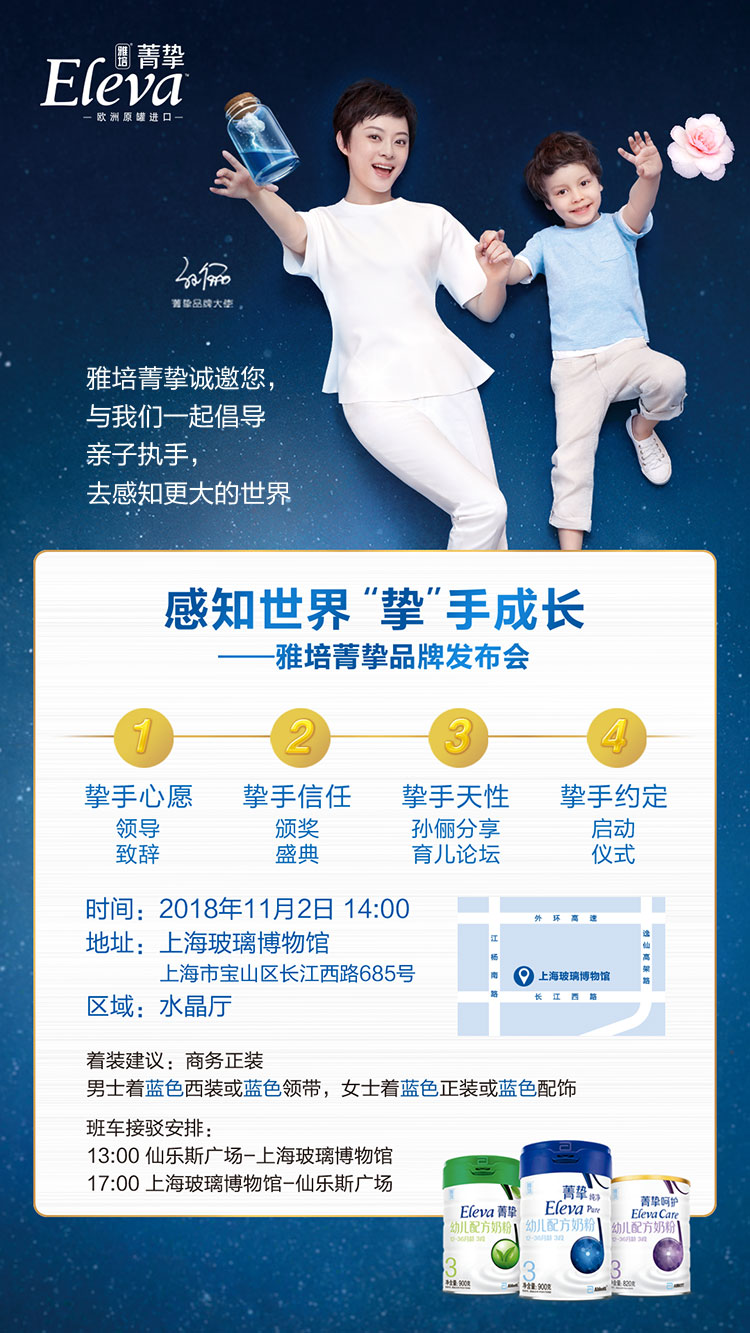
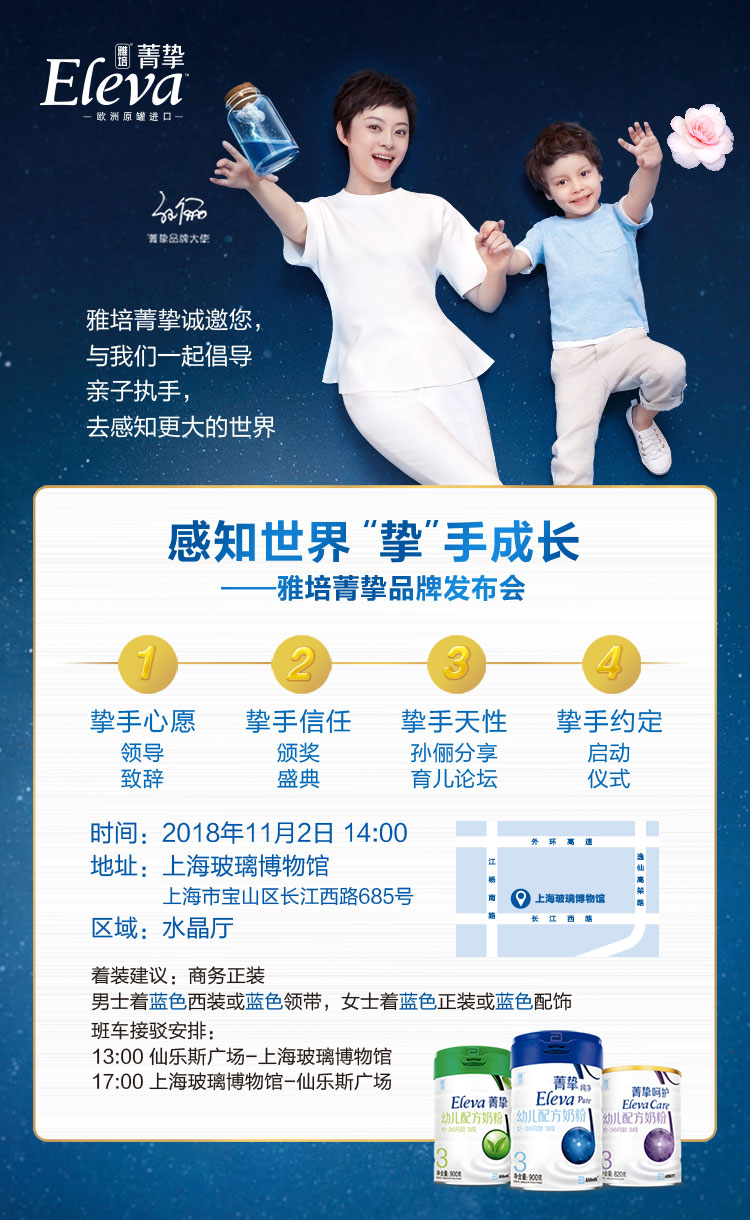
雅培

diff --git a/public/res/abbott/css/index.min.css b/public/res/abbott/css/index.min.css
@@ -1,1 +1,1 @@
-html,body{width:100%;height:100%}.hide{display:none}.swiper-slide .arrwo_bottom{position:absolute;top:auto;left:50%;bottom:1.73333rem;margin-left:-.66667rem;width:1.33333rem;animation:jump 1s infinite alternate}@keyframes jump{0%{bottom:2rem}100%{bottom:1.73333rem}}.loading{position:absolute;top:-.4rem;z-index:10000;width:10rem;height:17.78667rem;background:#fffdf2}.loading .logo{position:absolute;top:7.06667rem;left:50%;margin-left:-1.09333rem;width:2.18667rem;height:1.16rem}.loading .progress{position:absolute;top:9.33333rem;left:50%;margin-left:-3.4rem;width:6.8rem;height:.10667rem;border:2px solid #005bac;border-radius:10px}.loading .progress span{display:block;height:100%;background:#005bac}.loading .loading-text{position:absolute;top:9.86667rem;left:50%;margin-left:-.8rem;width:1.6rem;height:.36rem}.swiper-container{position:absolute;top:-.4rem;width:10rem;height:17.78667rem}.page1{position:relative;background:url(../img/01.jpg) no-repeat;background-size:100% 100%}.page1 img{position:absolute;top:18.67%;left:9%;width:81.86%}.page2{position:relative;background:url(../img/02.jpg) no-repeat;background-size:100% 100%}.page2 img{position:absolute;top:20.4%;left:13.86%;width:75.33%}.page3{position:relative;background:url(../img/03.jpg) no-repeat;background-size:100% 100%}.page3 img{position:absolute;top:19.87%;left:12.53%;width:74.66%}.page4{background:url(../img/04.jpg) no-repeat;background-size:100% 100%}
+html,body{width:100%;height:100%}.hide{display:none}.swiper-slide .arrwo_bottom{position:absolute;top:auto;left:50%;bottom:.66667rem;margin-left:-.66667rem;width:1.33333rem;animation:jump 1s infinite alternate}@keyframes jump{0%{bottom:1.06667rem}100%{bottom:.66667rem}}.loading{position:absolute;top:-.4rem;z-index:10000;width:10rem;height:17.78667rem;background:#fffdf2}.loading .logo{position:absolute;top:7.06667rem;left:50%;margin-left:-1.09333rem;width:2.18667rem;height:1.16rem}.loading .progress{position:absolute;top:9.33333rem;left:50%;margin-left:-3.4rem;width:6.8rem;height:.10667rem;border:2px solid #005bac;border-radius:10px}.loading .progress span{display:block;height:100%;background:#005bac}.loading .loading-text{position:absolute;top:9.86667rem;left:50%;margin-left:-.8rem;width:1.6rem;height:.36rem}.swiper-container{overflow:hidden;position:absolute;top:50%;margin-top:-8.13333rem;width:10rem;height:16.26667rem}.page1{position:relative;background:url(../img/01.jpg) no-repeat;background-size:100% 100%}.page1 img{position:absolute;top:18.67%;left:9%;width:81.86%}.page2{position:relative;background:url(../img/02.jpg) no-repeat;background-size:100% 100%}.page2 img{position:absolute;top:20.4%;left:13.86%;width:75.33%}.page3{position:relative;background:url(../img/03.jpg) no-repeat;background-size:100% 100%}.page3 img{position:absolute;top:19.87%;left:12.53%;width:74.66%}.page4{background:url(../img/04.jpg) no-repeat;background-size:100% 100%}

diff --git a/public/res/abbott/css/index.css b/public/res/abbott/css/index.css
@@ -12,7 +12,7 @@ body {
   position: absolute;
   top: auto;
   left: 50%;
-  bottom: 1.73333rem;
+  bottom: 0.66667rem;
   margin-left: -0.66667rem;
   width: 1.33333rem;
   animation: jump 1s infinite alternate;
@@ -20,10 +20,10 @@ body {
 
 @keyframes jump {
   0% {
-    bottom: 2rem;
+    bottom: 1.06667rem;
   }
   100% {
-    bottom: 1.73333rem;
+    bottom: 0.66667rem;
   }
 }
 
@@ -72,10 +72,12 @@ body {
 }
 
 .swiper-container {
+  overflow: hidden;
   position: absolute;
-  top: -0.4rem;
+  top: 50%;
+  margin-top: -8.13333rem;
   width: 10rem;
-  height: 17.78667rem;
+  height: 16.26667rem;
 }
 
 .page1 {

diff --git a/public/res/abbott/css/index.scss b/public/res/abbott/css/index.scss
@@ -16,17 +16,17 @@ body {
   position: absolute;
   top: auto;
   left: 50%;
-  bottom: PX(130);
+  bottom: PX(50);
   margin-left: PX(-50);
   width: PX(100);
   animation: jump 1s infinite alternate;
 }
 @keyframes jump {
   0% {
-    bottom: PX(150);
+    bottom: PX(80);
   }
   100% {
-    bottom: PX(130);
+    bottom: PX(50);
   }
 }
 
@@ -71,10 +71,12 @@ body {
 }
 
 .swiper-container {
+  overflow: hidden;
   position: absolute;
-  top: PX(-30);
+  top: 50%;
+  margin-top: PX(-610);
   width: PX(750);
-  height: PX(1334);
+  height: PX(1220);
 }
 
 .page1 {
